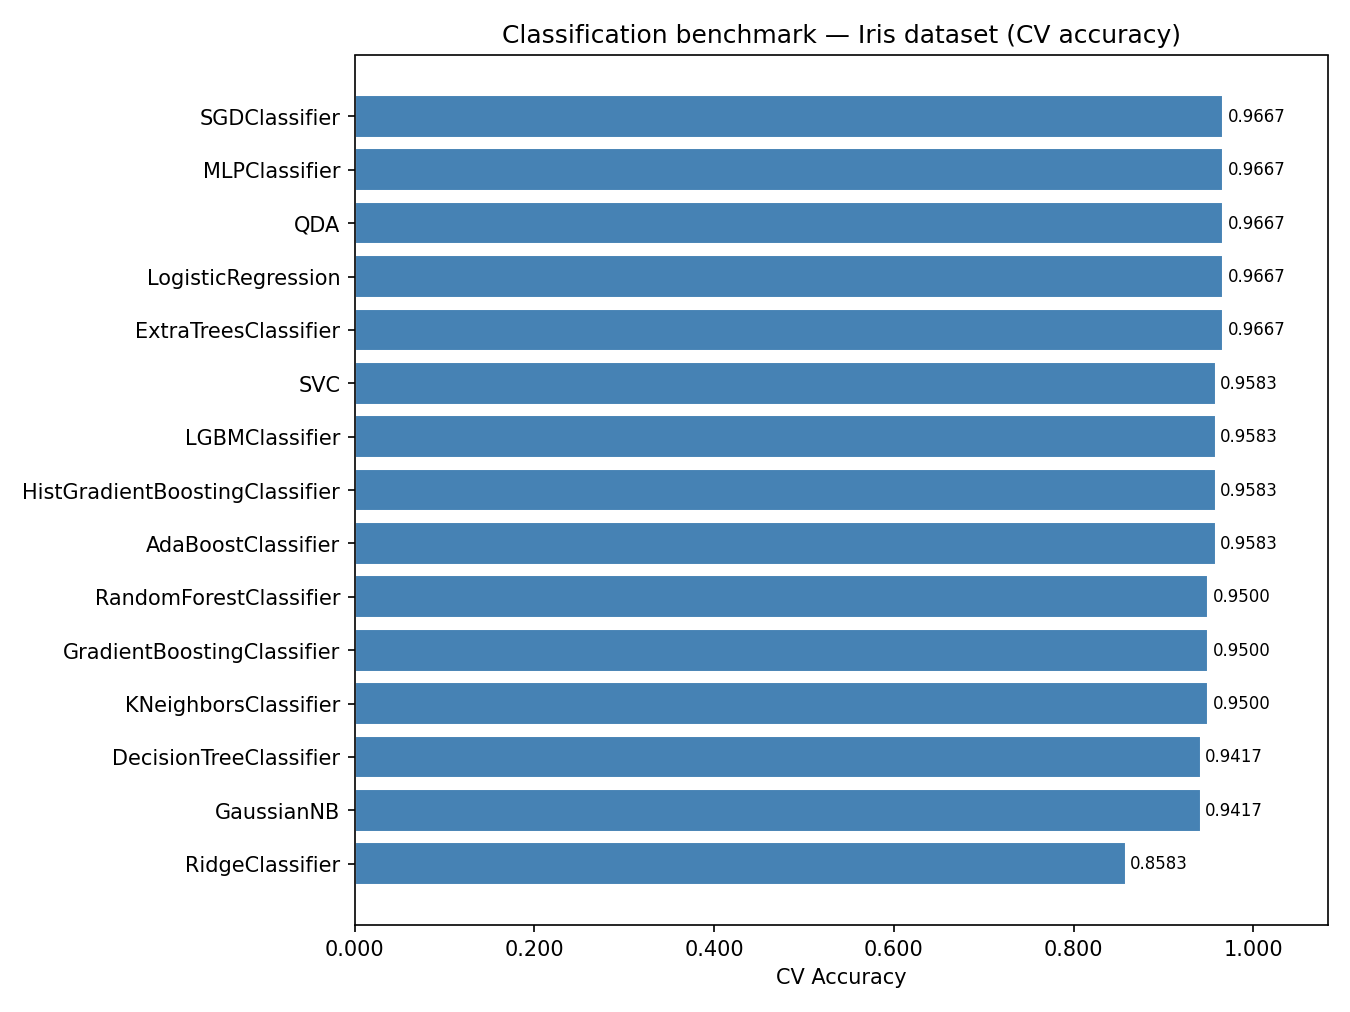
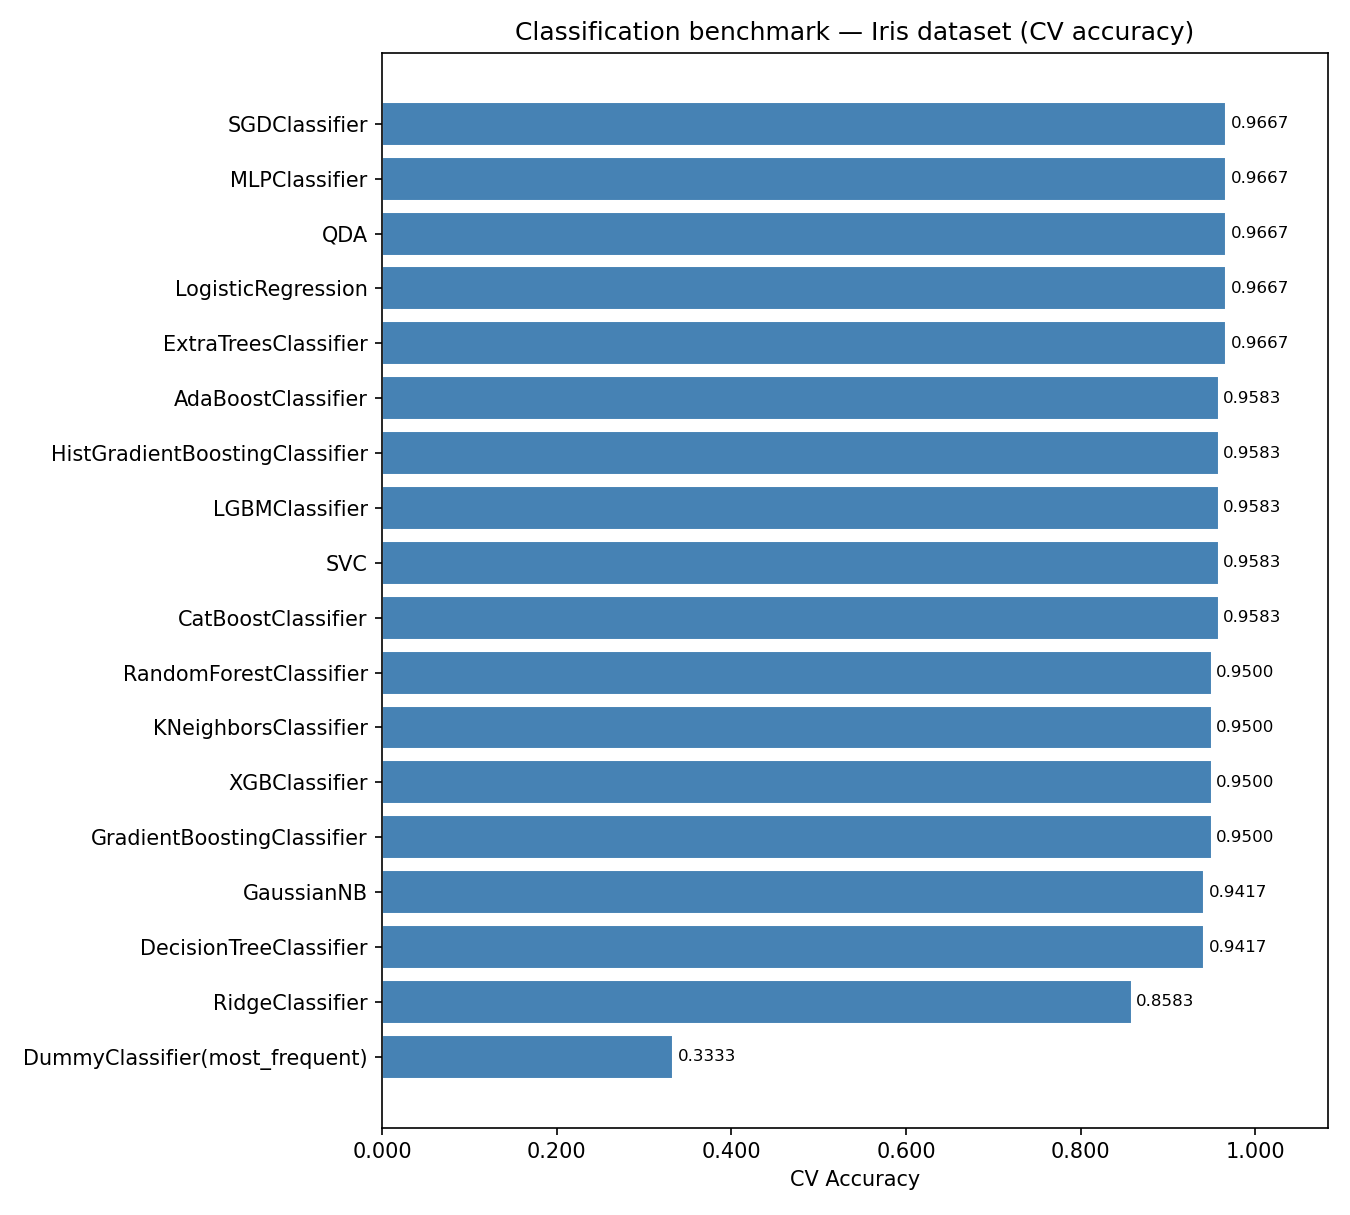
AlgorithmBenchmark with  dummy classifiers

diff --git a/optuml/optuml.py b/optuml/optuml.py
@@ -1457,6 +1457,13 @@ class AlgorithmBenchmark:
         Set to ``-1`` to use all available cores.
     verbose : bool or int, default False
         Verbosity level forwarded to each Optimizer.
+    include_dummy : bool, default True
+        Whether to include a dummy baseline (``DummyClassifier`` with
+        ``strategy="most_frequent"`` for classification, ``DummyRegressor``
+        with ``strategy="mean"`` for regression).  The dummy is evaluated with
+        the same CV setup but bypasses Optuna entirely.  It is always excluded
+        from ``best_algorithm_`` / ``best_estimator_`` selection so it cannot
+        "win", but appears in ``results_`` and ``summary()`` for reference.
     """
 
     def __init__(
@@ -1474,6 +1481,7 @@ class AlgorithmBenchmark:
         n_jobs: int = 1,
         n_jobs_algorithms: int = 1,
         verbose: Union[bool, int] = False,
+        include_dummy: bool = True,
     ):
         if task not in ("classification", "regression"):
             raise ValueError("task must be 'classification' or 'regression'")
@@ -1509,6 +1517,54 @@ class AlgorithmBenchmark:
         self.n_jobs = n_jobs
         self.n_jobs_algorithms = n_jobs_algorithms
         self.verbose = verbose
+        self.include_dummy = include_dummy
+
+    def _run_dummy(self, X, y):
+        """Evaluate the dummy baseline via cross-validation (no Optuna)."""
+        import time as _time
+        from sklearn.model_selection import cross_val_score
+
+        if self.task == "classification":
+            from sklearn.dummy import DummyClassifier
+            dummy = DummyClassifier(strategy="most_frequent",
+                                    random_state=self.random_state)
+            label = "DummyClassifier(most_frequent)"
+        else:
+            from sklearn.dummy import DummyRegressor
+            dummy = DummyRegressor(strategy="mean")
+            label = "DummyRegressor(mean)"
+
+        scoring = self.scoring or ("accuracy" if self.task == "classification" else "r2")
+        t0 = _time.monotonic()
+        try:
+            scores = cross_val_score(dummy, X, y, cv=self.cv, scoring=scoring,
+                                     n_jobs=self.n_jobs)
+            dummy.fit(X, y)
+            elapsed = _time.monotonic() - t0
+            return {
+                "algorithm": label,
+                "best_score": float(scores.mean()),
+                "best_params": {},
+                "n_trials_completed": 1,
+                "fit_time": elapsed,
+                "error": None,
+                "optimizer": None,
+                "_dummy_estimator": dummy,
+                "_is_dummy": True,
+            }
+        except Exception as exc:
+            elapsed = _time.monotonic() - t0
+            return {
+                "algorithm": label,
+                "best_score": float("nan"),
+                "best_params": {},
+                "n_trials_completed": 0,
+                "fit_time": elapsed,
+                "error": str(exc),
+                "optimizer": None,
+                "_dummy_estimator": None,
+                "_is_dummy": True,
+            }
 
     def _run_one(self, algorithm, X, y):
         """Fit a single Optimizer and return a result dict."""
@@ -1570,10 +1626,14 @@ class AlgorithmBenchmark:
             delayed(self._run_one)(alg, X, y) for alg in self.algorithms
         )
 
+        if self.include_dummy:
+            results.append(self._run_dummy(X, y))
+
         self.results_ = results
 
-        # Pick the best among succeeded runs
-        succeeded = [r for r in results if r["error"] is None]
+        # Pick the best among real (non-dummy) succeeded runs
+        succeeded = [r for r in results
+                     if r["error"] is None and not r.get("_is_dummy", False)]
         if not succeeded:
             raise RuntimeError("All algorithms failed. Check errors in results_.")
 
@@ -1586,7 +1646,16 @@ class AlgorithmBenchmark:
         self.best_score_ = best["best_score"]
         self.best_estimator_ = best["optimizer"].best_estimator_
         self.best_params_ = best["optimizer"].best_params_
-        self.optimizers_ = {r["algorithm"]: r["optimizer"] for r in results}
+        self.optimizers_ = {
+            r["algorithm"]: r["optimizer"]
+            for r in results
+            if not r.get("_is_dummy", False)
+        }
+
+        dummy_result = next((r for r in results if r.get("_is_dummy")), None)
+        if dummy_result:
+            self.dummy_score_ = dummy_result["best_score"]
+            self.dummy_estimator_ = dummy_result.get("_dummy_estimator")
 
         return self
 
@@ -1608,6 +1677,7 @@ class AlgorithmBenchmark:
                 "n_trials_completed": r["n_trials_completed"],
                 "fit_time": r["fit_time"],
                 "error": r["error"],
+                "is_dummy": r.get("_is_dummy", False),
             }
             for r in self.results_
         ]

diff --git a/tests/test_optimizer.py b/tests/test_optimizer.py
@@ -461,6 +461,7 @@ def test_benchmark_classification_fit_and_attributes(classification_data):
         algorithms=_BENCHMARK_CLASSIFIERS,
         n_trials=3,
         random_state=42,
+        include_dummy=False,
     )
     bench.fit(X_train, y_train)
 
@@ -544,7 +545,7 @@ def test_benchmark_summary_before_fit_raises():
 
 
 def test_benchmark_result_fields(classification_data):
-    """Each entry in results_ has the expected keys."""
+    """Each entry in results_ has the expected keys (dummy entries have extra internal keys)."""
     X_train, _, y_train, _ = classification_data
 
     bench = AlgorithmBenchmark(
@@ -552,6 +553,7 @@ def test_benchmark_result_fields(classification_data):
         algorithms=_BENCHMARK_CLASSIFIERS,
         n_trials=3,
         random_state=42,
+        include_dummy=False,
     )
     bench.fit(X_train, y_train)
 
@@ -562,3 +564,95 @@ def test_benchmark_result_fields(classification_data):
         assert result["fit_time"] > 0
         assert result["error"] is None
         assert result["optimizer"] is not None
+
+
+def test_benchmark_dummy_classification(classification_data):
+    """Dummy classifier appears in results_, sets dummy_score_, never wins best_algorithm_."""
+    X_train, X_test, y_train, y_test = classification_data
+
+    bench = AlgorithmBenchmark(
+        task="classification",
+        algorithms=_BENCHMARK_CLASSIFIERS,
+        n_trials=3,
+        random_state=42,
+        include_dummy=True,
+    )
+    bench.fit(X_train, y_train)
+
+    dummy_results = [r for r in bench.results_ if r.get("_is_dummy")]
+    assert len(dummy_results) == 1
+    assert "DummyClassifier" in dummy_results[0]["algorithm"]
+    assert 0 <= dummy_results[0]["best_score"] <= 1
+
+    assert hasattr(bench, "dummy_score_")
+    assert hasattr(bench, "dummy_estimator_")
+    assert bench.dummy_estimator_ is not None
+    assert "DummyClassifier" not in bench.best_algorithm_
+
+    # dummy must not appear in optimizers_
+    assert all("Dummy" not in k for k in bench.optimizers_)
+
+
+def test_benchmark_dummy_regression(regression_data):
+    """Dummy regressor appears in results_ and sets dummy_score_."""
+    X_train, _, y_train, _ = regression_data
+
+    bench = AlgorithmBenchmark(
+        task="regression",
+        algorithms=_BENCHMARK_REGRESSORS,
+        n_trials=3,
+        random_state=42,
+        include_dummy=True,
+    )
+    bench.fit(X_train, y_train)
+
+    dummy_results = [r for r in bench.results_ if r.get("_is_dummy")]
+    assert len(dummy_results) == 1
+    assert "DummyRegressor" in dummy_results[0]["algorithm"]
+
+    assert hasattr(bench, "dummy_score_")
+    assert "DummyRegressor" not in bench.best_algorithm_
+
+
+def test_benchmark_dummy_in_summary(classification_data):
+    """summary() includes the dummy row with is_dummy=True."""
+    X_train, _, y_train, _ = classification_data
+
+    bench = AlgorithmBenchmark(
+        task="classification",
+        algorithms=_BENCHMARK_CLASSIFIERS,
+        n_trials=3,
+        random_state=42,
+        include_dummy=True,
+    )
+    bench.fit(X_train, y_train)
+    summary = bench.summary()
+
+    try:
+        import pandas as pd
+        dummy_rows = summary[summary["is_dummy"] == True]
+        assert len(dummy_rows) == 1
+        total_rows = len(summary)
+    except ImportError:
+        dummy_rows = [r for r in summary if r["is_dummy"]]
+        assert len(dummy_rows) == 1
+        total_rows = len(summary)
+
+    assert total_rows == len(_BENCHMARK_CLASSIFIERS) + 1
+
+
+def test_benchmark_include_dummy_false(classification_data):
+    """include_dummy=False produces no dummy entry and no dummy_score_ attribute."""
+    X_train, _, y_train, _ = classification_data
+
+    bench = AlgorithmBenchmark(
+        task="classification",
+        algorithms=_BENCHMARK_CLASSIFIERS,
+        n_trials=3,
+        include_dummy=False,
+    )
+    bench.fit(X_train, y_train)
+
+    assert not any(r.get("_is_dummy") for r in bench.results_)
+    assert not hasattr(bench, "dummy_score_")
+    assert len(bench.results_) == len(_BENCHMARK_CLASSIFIERS)

diff --git a/examples/example-benchmark-all.py b/examples/example-benchmark-all.py
@@ -7,6 +7,9 @@ save results to CSV files.
 import warnings
 warnings.filterwarnings("ignore")
 
+import matplotlib
+matplotlib.use("Agg")  # non-interactive backend; must be set before pyplot import
+
 import numpy as np
 import matplotlib.pyplot as plt
 import matplotlib.ticker as mticker
